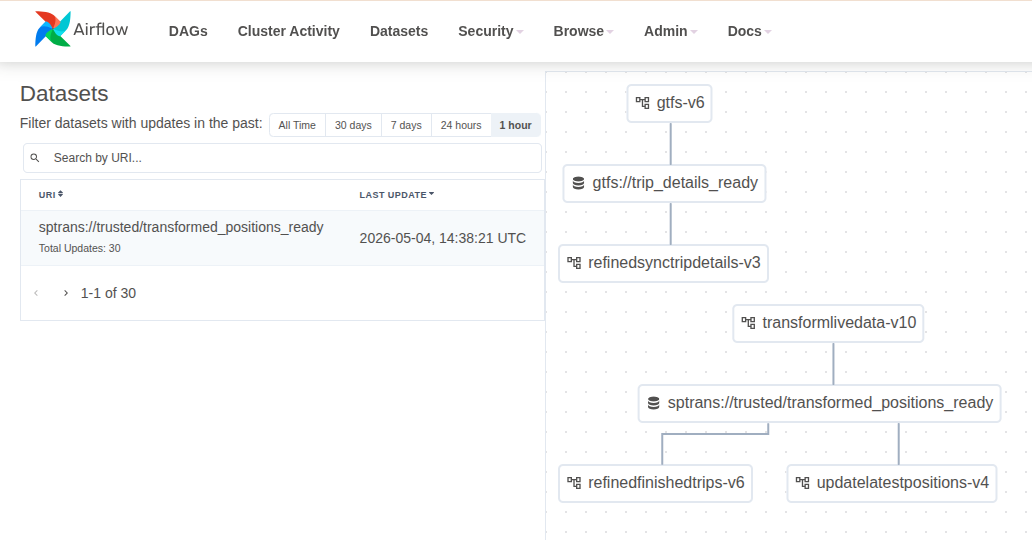
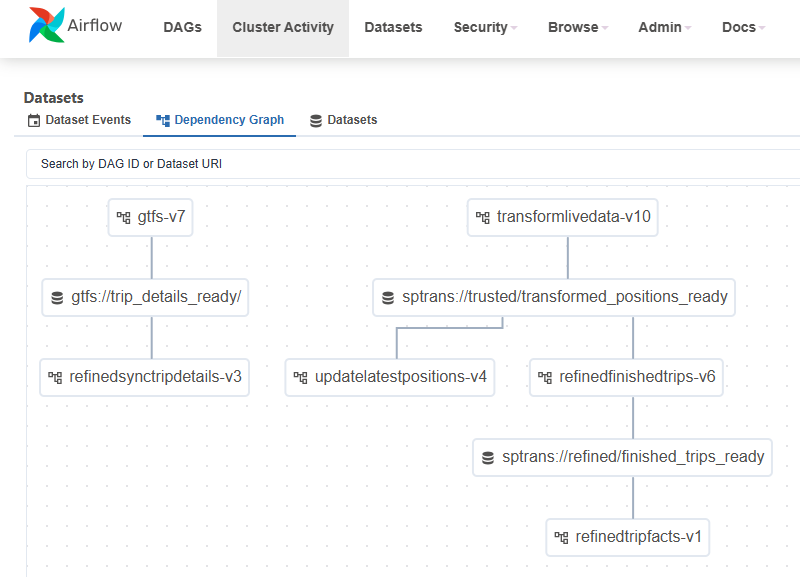
docs(monorepo): updated documents to add refinedtripfacts

diff --git a/README.md b/README.md
@@ -41,6 +41,7 @@ Detalhes sobre as DAGs:
     - [DAG orchestratetransform](./dags-dev/orchestratetransform/README.md): processo de identificação de dados de posição dos ônibus pendentes de processamento e que dispara a DAG de transformação.
     - [DAG refinedfinishedtrips](./dags-dev/refinedfinishedtrips/README.md): processo de transformação para criação das viagens finalizadas na camada refined a partir dos dados enriquecidos da camada trusted, com checagens de qualidade sobre posições, extração e persistência, além de geração de relatório consolidado.
         - A partir da versão 6 desta pipeline, a DAG no Airflow deixa de depender de agendamento por cron e passa a ser disparada por um Airflow Dataset emitido pelo pipeline `transformlivedata`, o que maximiza o freshness das viagens finalizadas calculadas na camada refined, que passam a ser atualizadas logo após a publicação bem sucedida dos dados transformados, e simplifica a manutenção ao remover o acoplamento entre cron schedules upstream e downstream.
+    - [DAG refinedtripfacts](./dags-dev/refinedtripfacts/README.md): processo de construção da tabela fato analítica `refined.trip_facts` a partir das viagens finalizadas produzidas pelo `refinedfinishedtrips`, derivando atributos analíticos para suporte a métricas operacionais avançadas em Metabase. Disparada pelo Dataset `finished_trips_ready` emitido pelo `refinedfinishedtrips`.
     - [DAG refinedsynctripdetails](./dags-dev/refinedsynctripdetails/README.md): processo de carga dos detalhes de viagens canônicos da camada trusted para a camada refined, com adaptação leve para consumo da camada de visualização, especialmente em linhas circulares. Esta DAG é iniciada assim que a DAG gtfs é finalizada com sucesso através do uso do mecanismo datasets do Airflow.
     - [DAG updatelatestpositions](./dags-dev/updatelatestpositions/README.md): processo de transformação para criação dos dados de última posição de cada ônibus na camada refined a partir dos dados da camada trusted. A partir da versão 4 deste pipeline, a DAG no Airflow deixa de depender de agendamento por cron e passa a ser disparada por um Airflow Dataset emitido pelo pipeline `transformlivedata`, o que maximiza o freshness da tabela `refined.latest_positions`, que passa a ser atualizada logo após a publicação bem sucedida dos dados transformados, e simplifica a manutenção ao remover o acoplamento entre cron schedules upstream e downstream.
 
@@ -52,7 +53,9 @@ O diagrama abaixo complementa a descrição das DAGs mostrando a orquestração 
 - `gtfs` publica o Dataset `gtfs://trip_details_ready`
 - `refinedsynctripdetails` é disparada por esse Dataset, ou seja, é executado automaticamente após a conclusão com sucesso do pipeline gtfs
 - `transformlivedata` publica o Dataset `sptrans://trusted/transformed_positions_ready`
-- `refinedfinishedtrips` e `updatelatestpositions` são disparadas por esse Dataset , ou seja, são executados automaticamente após a conclusão com sucesso do pipeline transformlivedata
+- `refinedfinishedtrips` e `updatelatestpositions` são disparadas por esse Dataset, ou seja, são executados automaticamente após a conclusão com sucesso do pipeline transformlivedata
+- `refinedfinishedtrips` publica o Dataset `sptrans://refined/finished_trips_ready`
+- `refinedtripfacts` é disparada por esse Dataset, ou seja, é executada automaticamente após a conclusão com sucesso do pipeline refinedfinishedtrips
 
 ## Configuração
 O arquivo `.env` na raiz do projeto contém todas as variáveis de ambiente necessárias para o funcionamento da infraestrutura (MinIO, Airflow, extractloadlivedata), conforme o template de configuração disponível em `.env.example`.
@@ -101,6 +104,7 @@ Porém será necessário seguir as instruções abaixo, executando alguns comand
 - [gtfs](./dags-dev/gtfs/README.md)
 - [transformlivedata](./dags-dev/transformlivedata/README.md)
 - [refinedfinishedtrips](./dags-dev/refinedfinishedtrips/README.md)
+- [refinedtripfacts](./dags-dev/refinedtripfacts/README.md)
 - [updatelatestpositions](./dags-dev/updatelatestpositions/README.md)
 - [extractloadlivedata](./extractloadlivedata/README.md)
 

diff --git a/README-EN.md b/README-EN.md
@@ -44,6 +44,7 @@ Details about the DAGs:
 - [DAG orchestratetransform](./dags-dev/orchestratetransform/README-EN.md): identifies bus position data pending processing and triggers the transformation DAG.
 - [DAG refinedfinishedtrips](./dags-dev/refinedfinishedtrips/README-EN.md): transforms trusted enriched data into completed trips in the refined layer, with quality checks over positions, extraction, and persistence, plus consolidated reporting.
   - Since version 6 of this pipeline, the Airflow DAG no longer depends on a cron schedule and is instead triggered by an Airflow Dataset emitted by the `transformlivedata` pipeline. This maximizes freshness of the completed trips calculated in the refined layer, updating them immediately after successful publication of transformed data, and simplifies maintenance by removing coupling between upstream and downstream cron schedules.
+- [DAG refinedtripfacts](./dags-dev/refinedtripfacts/README-EN.md): builds the analytical fact table `refined.trip_facts` from the finished trips produced by `refinedfinishedtrips`, deriving analytical attributes to support advanced operational metrics in Metabase. Triggered by the `finished_trips_ready` Dataset emitted by `refinedfinishedtrips`.
 - [DAG refinedsynctripdetails](./dags-dev/refinedsynctripdetails/README-EN.md): loads canonical trip details from the trusted layer into the refined layer, with light adaptation for the visualization layer, especially for circular routes. This DAG starts as soon as `gtfs` finishes successfully through Airflow Datasets.
 - [DAG updatelatestpositions](./dags-dev/updatelatestpositions/README-EN.md): transforms trusted data into latest-position data for each bus in the refined layer. Since version 4 of this pipeline, the Airflow DAG no longer depends on a cron schedule and is instead triggered by an Airflow Dataset emitted by `transformlivedata`, maximizing freshness of `refined.latest_positions`, which is updated immediately after successful publication of transformed data, and simplifying maintenance by removing coupling between upstream and downstream cron schedules.
 
@@ -57,6 +58,8 @@ The diagram below complements the DAG descriptions by showing the event-driven o
 - `refinedsynctripdetails` is triggered by that Dataset, which means it runs automatically after successful completion of the `gtfs` pipeline
 - `transformlivedata` publishes the Dataset `sptrans://trusted/transformed_positions_ready`
 - `refinedfinishedtrips` and `updatelatestpositions` are triggered by that Dataset, which means they run automatically after successful completion of the `transformlivedata` pipeline
+- `refinedfinishedtrips` publishes the Dataset `sptrans://refined/finished_trips_ready`
+- `refinedtripfacts` is triggered by that Dataset, which means it runs automatically after successful completion of the `refinedfinishedtrips` pipeline
 
 ### Local Centralised Log Stack (Loki + Promtail + Grafana + Alertmanager)
 
@@ -90,6 +93,7 @@ After starting the project following the instructions below, you must then execu
 - [gtfs](./dags-dev/gtfs/README-EN.md)
 - [transformlivedata](./dags-dev/transformlivedata/README-EN.md)
 - [refinedfinishedtrips](./dags-dev/refinedfinishedtrips/README-EN.md)
+- [refinedtripfacts](./dags-dev/refinedtripfacts/README-EN.md)
 - [updatelatestpositions](./dags-dev/updatelatestpositions/README-EN.md)
 - [extractloadlivedata](./extractloadlivedata/README-EN.md)
 